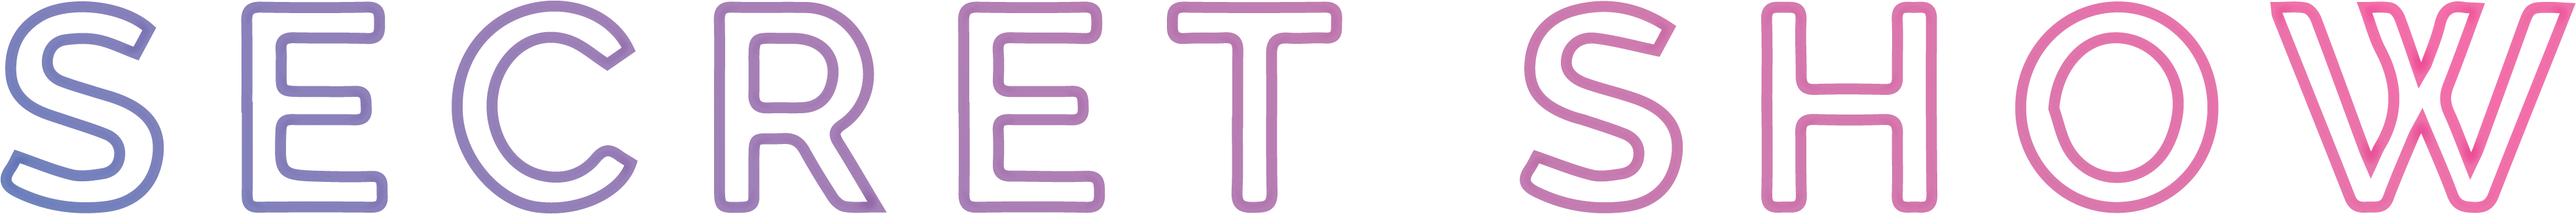
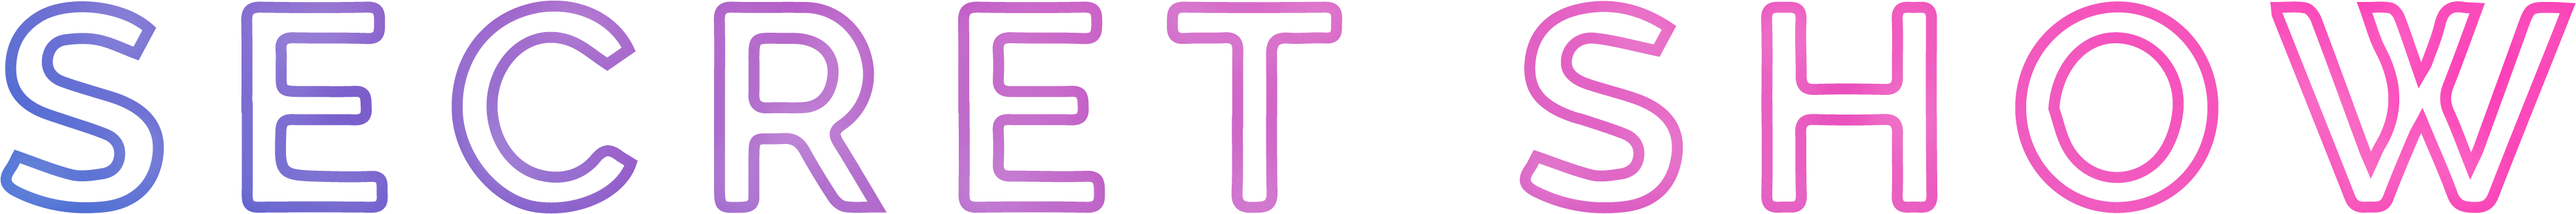
added neon sign effect/ ladning.js file

diff --git a/public/index.html b/public/index.html
@@ -12,7 +12,7 @@
     
 
     <header id="header"> 
-        <a href="./index.html"><img id="reflect" src="./images/Secret show01-01.png" alt="Secret Show"></a>
+        <a href="./index.html"><img id="reflect" src="./images/Secret Show.png" alt="Secret Show"></a>
        
     </header>
 
@@ -96,7 +96,7 @@
   src="https://code.jquery.com/jquery-3.6.0.min.js"
   integrity="sha256-/xUj+3OJU5yExlq6GSYGSHk7tPXikynS7ogEvDej/m4="
   crossorigin="anonymous"></script>
-  <script src="./assets/js/secretshow.js"></script>
+  <script src="/public/js/landing.js"></script>
 
 </body>
 </html>

diff --git a/public/css/style.css b/public/css/style.css
@@ -27,7 +27,7 @@ header img {
 }
 
 #reflect {
-    -webkit-box-reflect: below -50px -webkit-gradient(linear, right top, right bottom, from(transparent), to(rgba(255, 255, 255, 0.4)));
+    -webkit-box-reflect: below -55px -webkit-gradient(linear, right top, right bottom, from(transparent), to(rgba(255, 255, 255, 0.15)));
 }
 
 article {

diff --git a/public/js/landing.js b/public/js/landing.js
@@ -1,0 +1,10 @@
+const header = document.getElementById("reflect");
+
+
+
+$(reflect).hover(function(){
+    $(this).attr('src','./images/Secret Show glow.png');
+}, function () {
+    $(this).attr('src','./images/Secret show.png');
+
+  });
